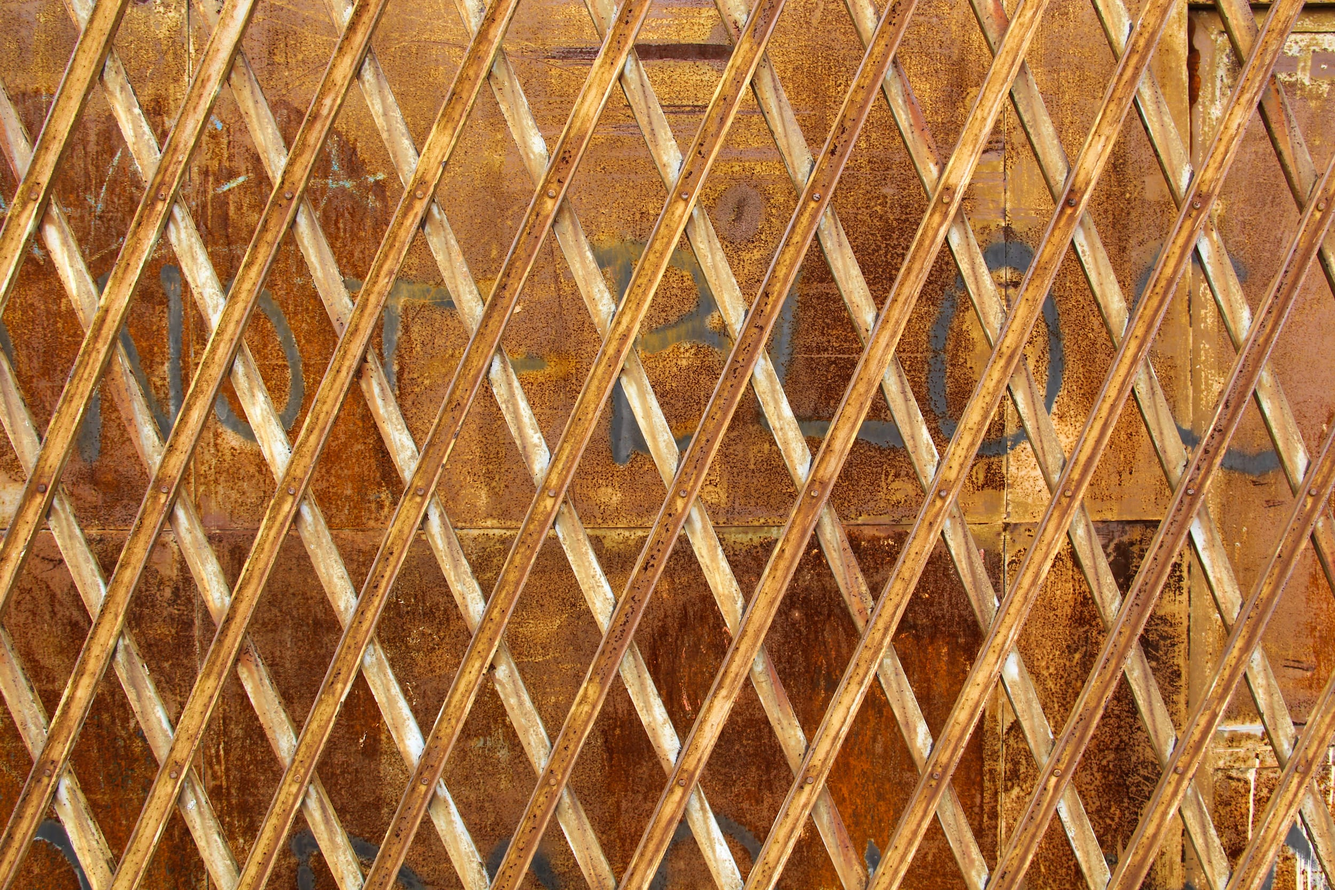
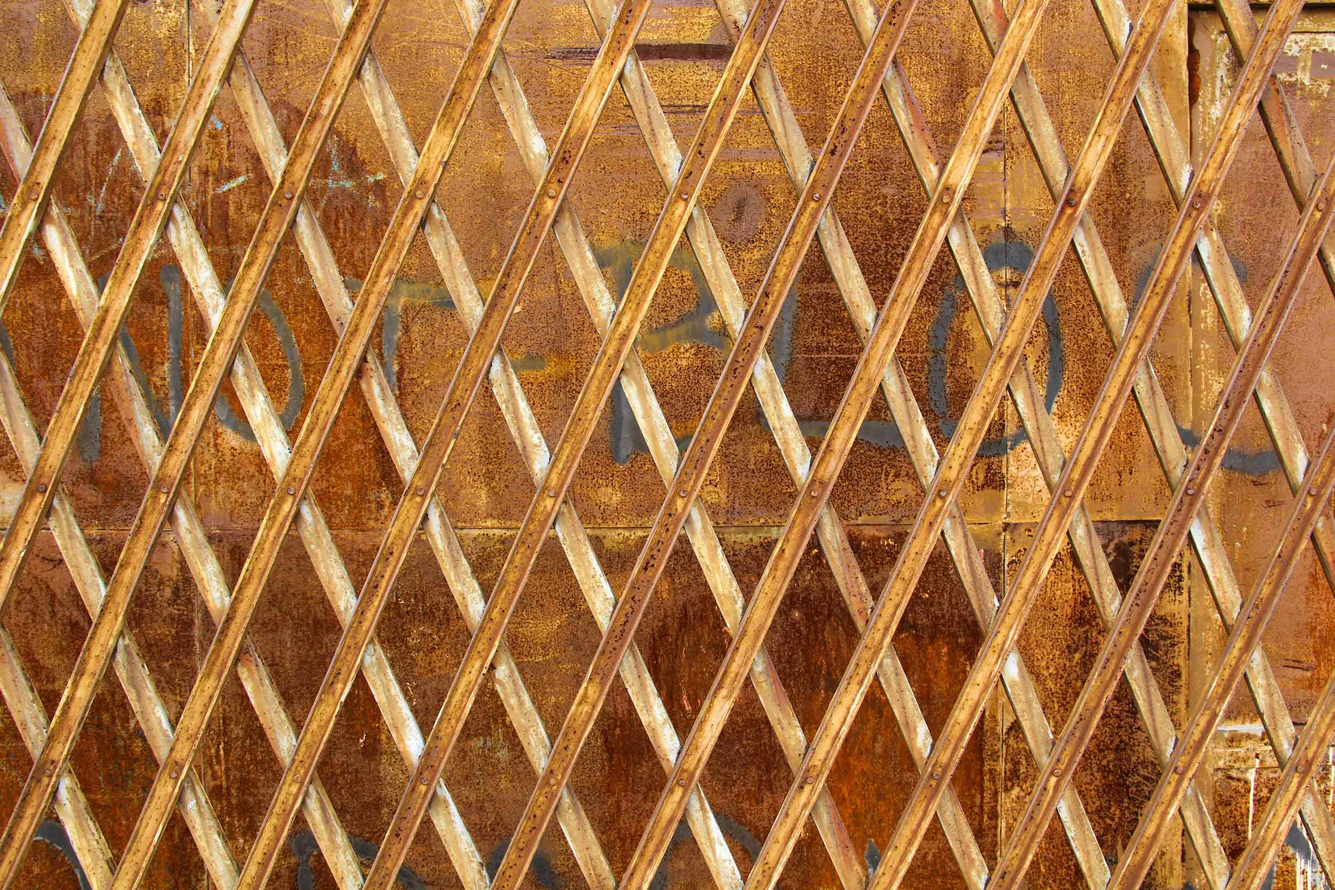
Image optimization
-Compressed images for faster loading
-Converted images to progressive scan for incremental loading quality
-Added blank image color for pre-filled background for images before
images render

diff --git a/css/style.css b/css/style.css
@@ -55,7 +55,7 @@
     min-height: 100vh;
     background-repeat: no-repeat;
     border-bottom: 1px solid #fff;
-    background-image: url("../img/bg/nest-background-green.png");
+    background-image: url("../img/bg/nest-background-green.jpg");
     background-size: cover;
   }
   .hero {
@@ -117,19 +117,22 @@
     padding: 180px 0 180px 0;
     background-image: url("../img/bg/rails.jpg");
     border-bottom: 1px solid #fff;
+    background-color: #804618;
     color:#fff;
     overflow: hidden;
   }
   #brick {
     padding: 180px 0 180px 0;
-    background-image: url("../img/bg/brick.png");
+    background-image: url("../img/bg/brick.jpg");
+    background-color: #99927d;
     border-bottom: 1px solid #fff;
     color:#fff;
     overflow: hidden;
   }
   #sky {
     padding: 180px 0 180px 0;
-    background-image: url("../img/bg/sky.png");
+    background-image: url("../img/bg/sky.jpg");
+    background-color: #397194;
     border-bottom: 1px solid #fff;
     color:#fff;
     overflow: hidden;
@@ -213,7 +216,7 @@
     min-width: 1200px;
     margin-top: -300px; }
   #cta {
-    background-image: url("../img/bg/nest-background-green.png");
+    background-image: url("../img/bg/nest-background-green.jpg");
     background-color: #609d88;
     color:#fff; 
     border-bottom: solid 1px #fff;
